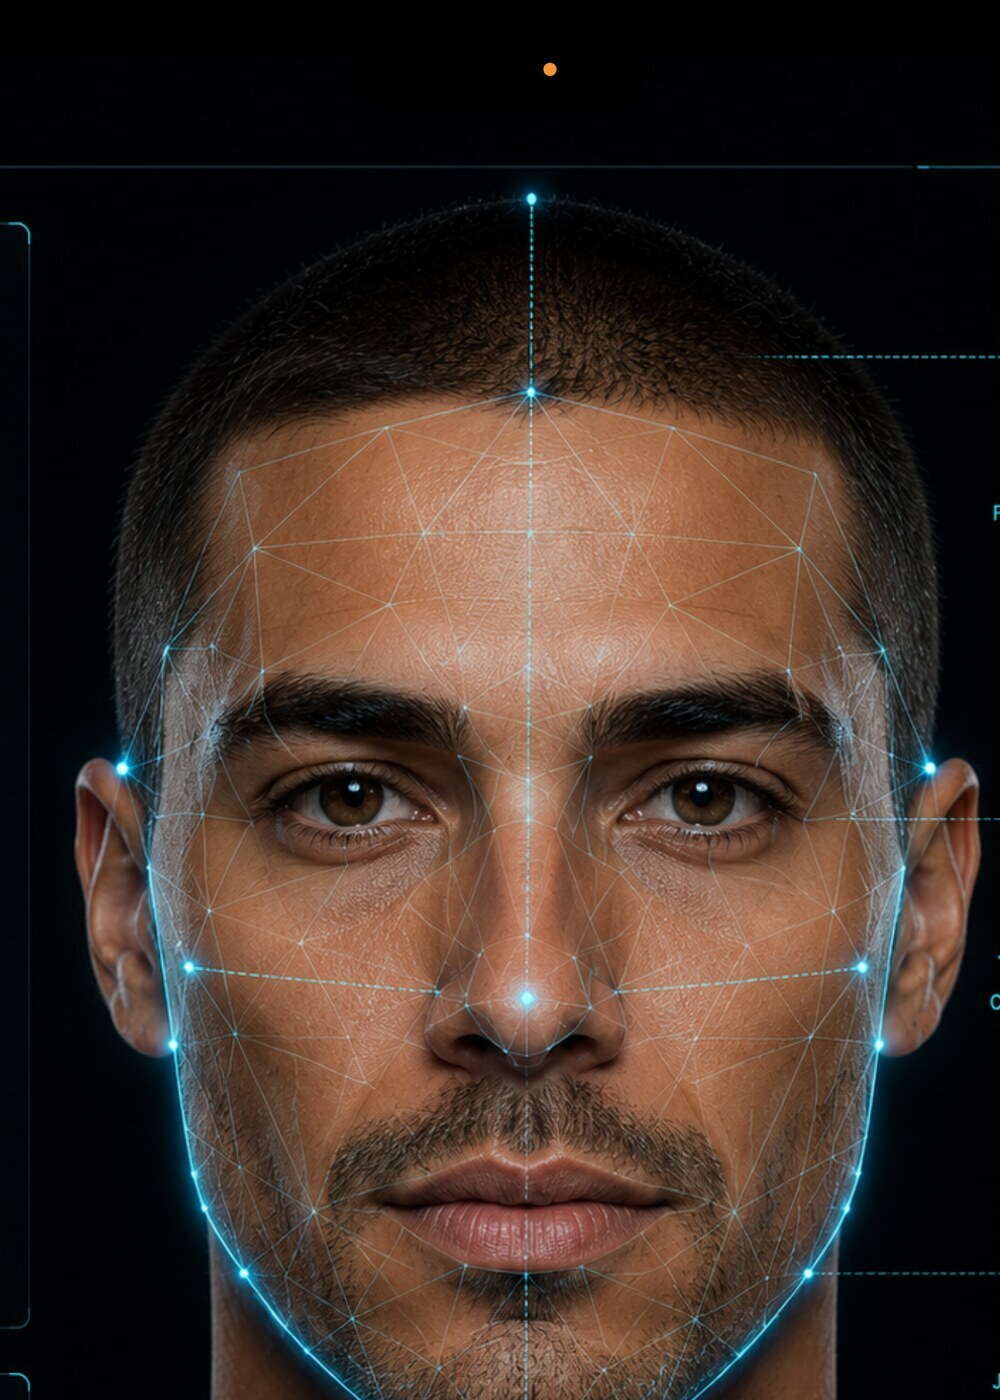
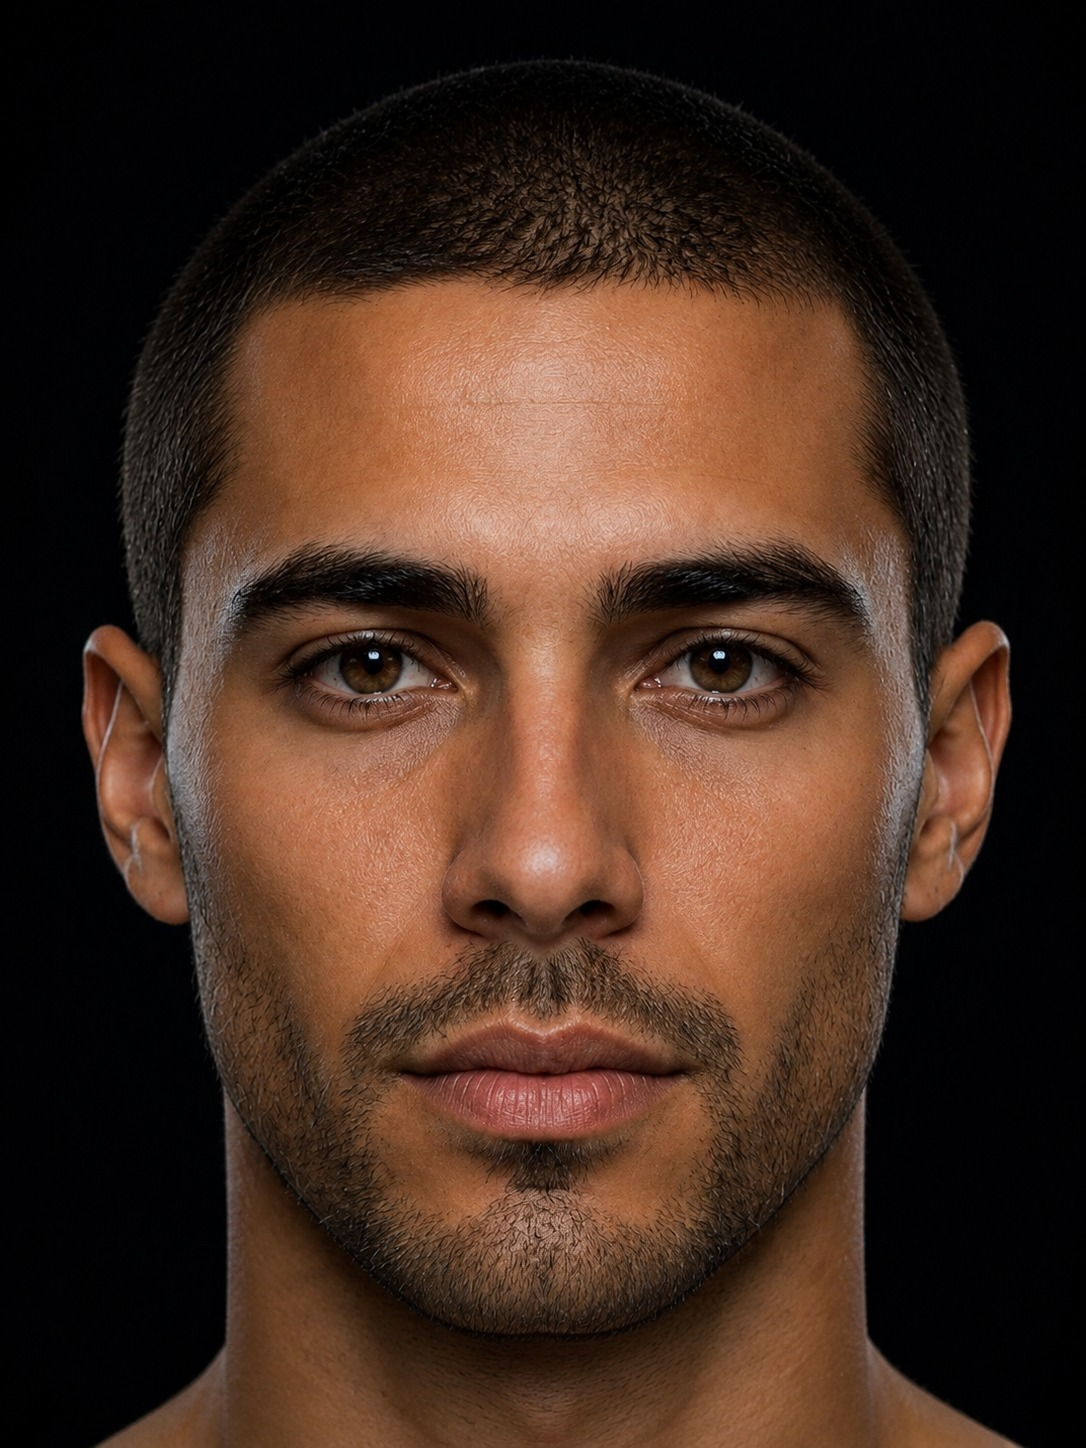
Remove top branding from ScanUnlockGate, update male face guide photo

diff --git a/client/src/pages/ScanUnlockGate.jsx b/client/src/pages/ScanUnlockGate.jsx
@@ -9,7 +9,6 @@ import {
 import useStore from '../store/useStore'
 import { api } from '../utils/api'
 import PromoModal from '../components/PromoModal'
-import logo from '../assets/ascendus-icon.png'
 import { GOLD, GOLD_GRADIENT, EASE_STANDARD, RED } from '../utils/theme'
 import { CardShell, BlurLock, EXTENDED_CATEGORIES, CategoryCard } from '../components/CategoryCard'
 import { triggerHaptic } from '../utils/haptics'
@@ -132,14 +131,6 @@ function Card1Score({ scan }) {
       }} />
 
       <div className="flex-1 flex flex-col justify-center px-6 overflow-y-auto">
-
-        {/* Header — centered logo + wordmark */}
-        <div className="flex items-center justify-center gap-2.5 mb-7">
-          <img src={logo} alt="" style={{ width: 18, height: 18, mixBlendMode: 'lighten', opacity: 0.65 }} />
-          <span className="font-heading font-bold text-[9px] tracking-[0.24em]" style={{ color: 'rgba(198,168,92,0.45)' }}>
-            ASCENDUS
-          </span>
-        </div>
 
         {/* Hero score */}
         <div className="mb-5">
